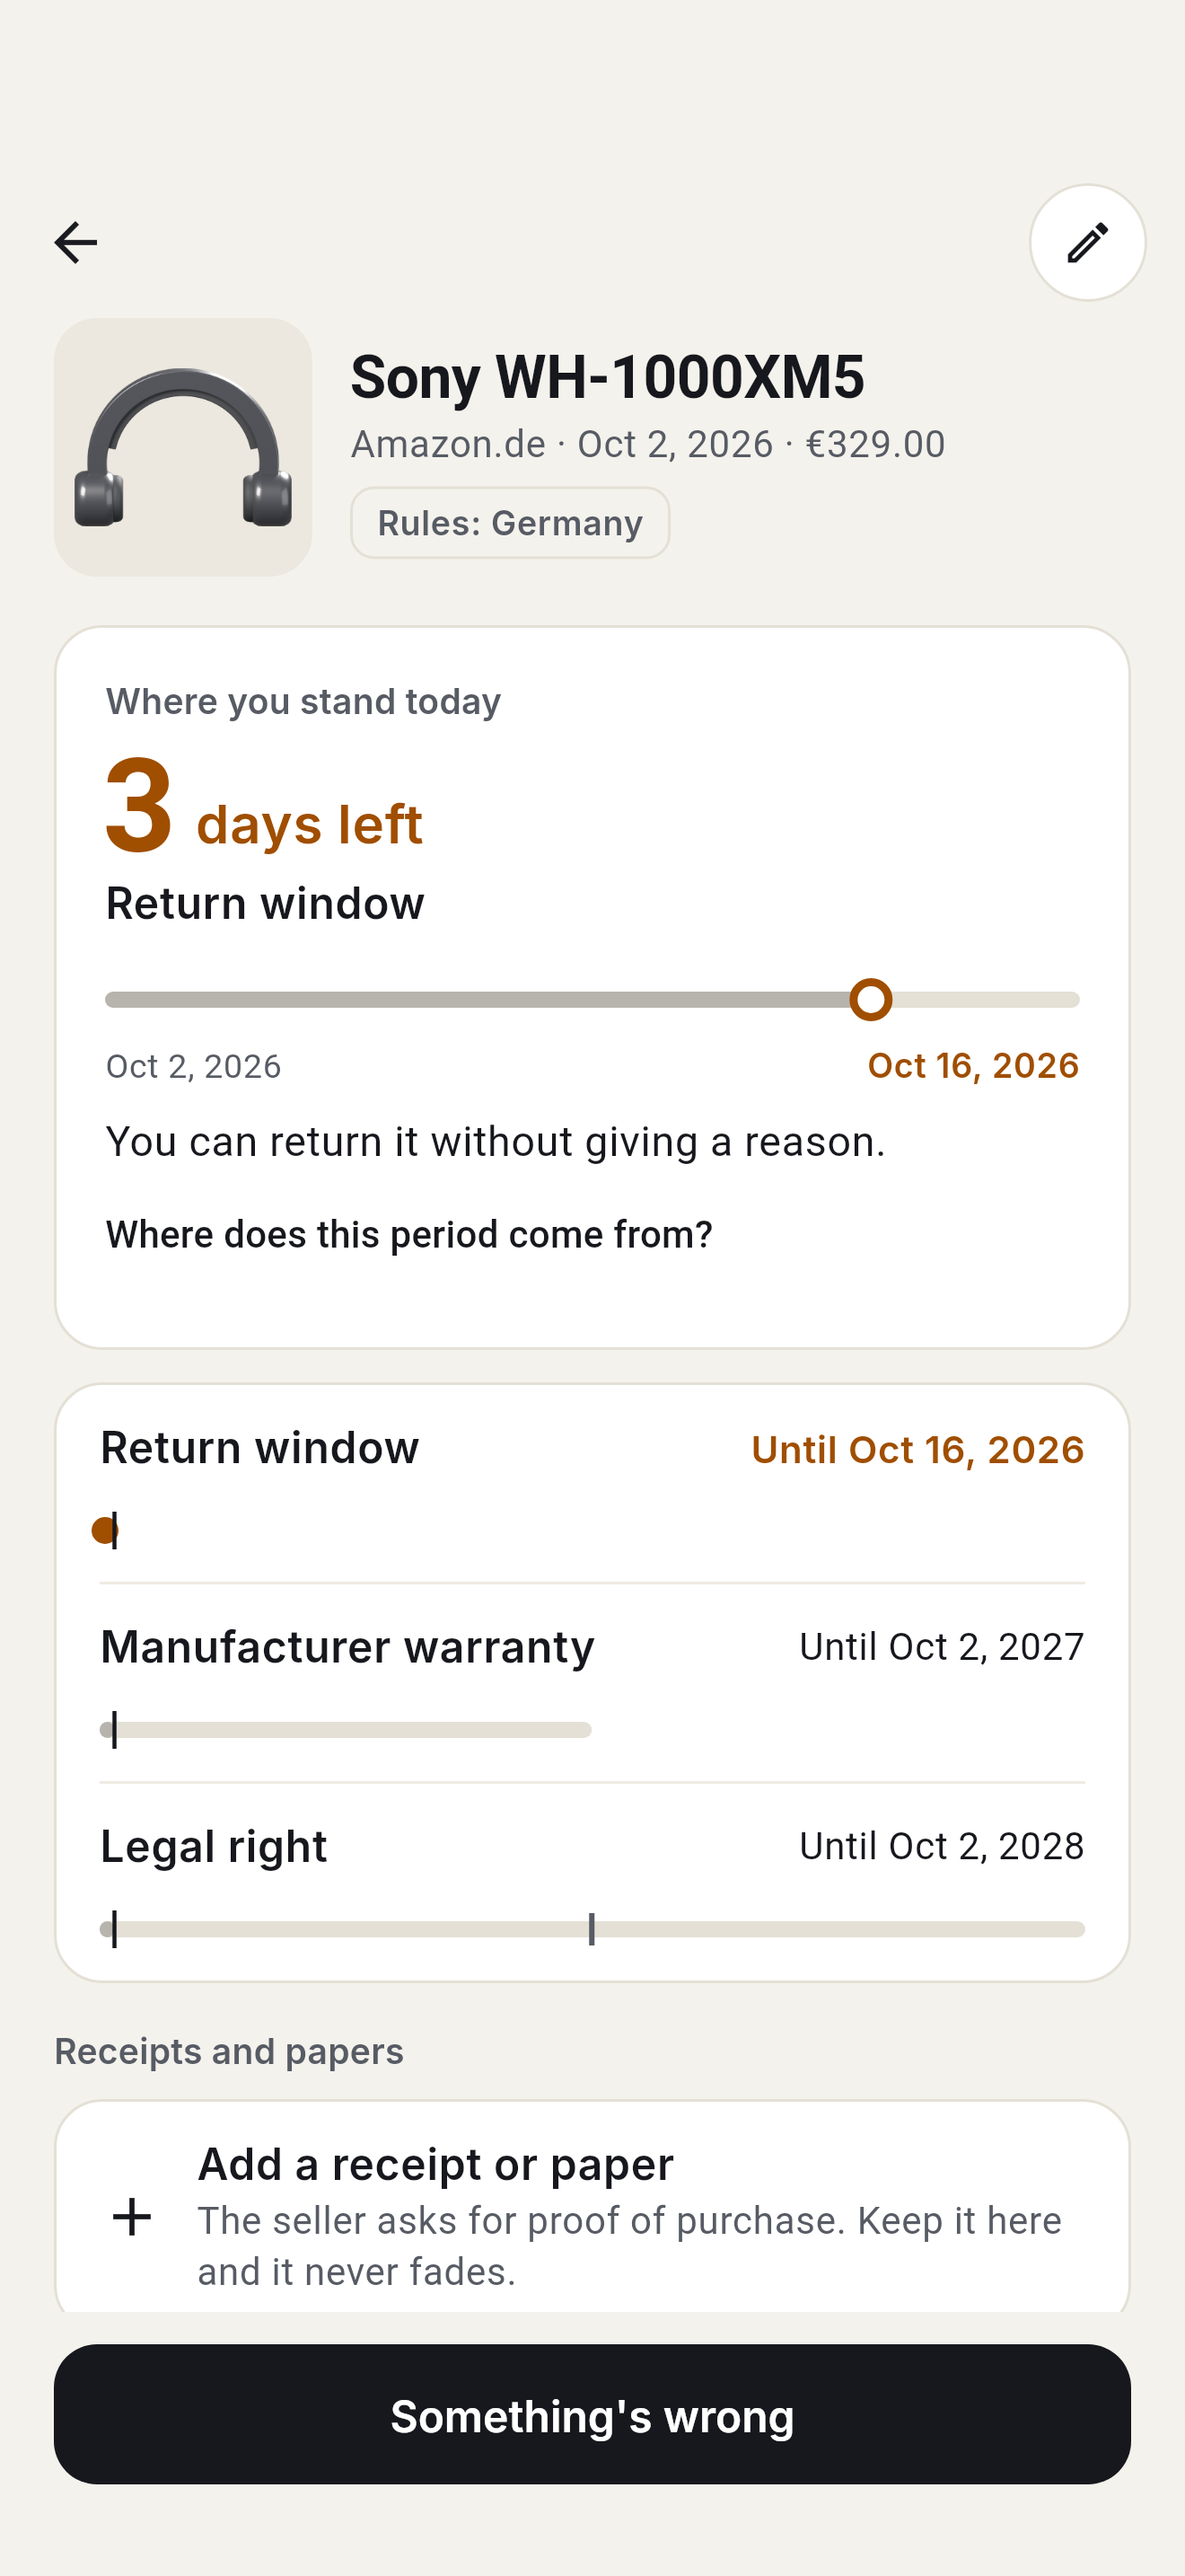
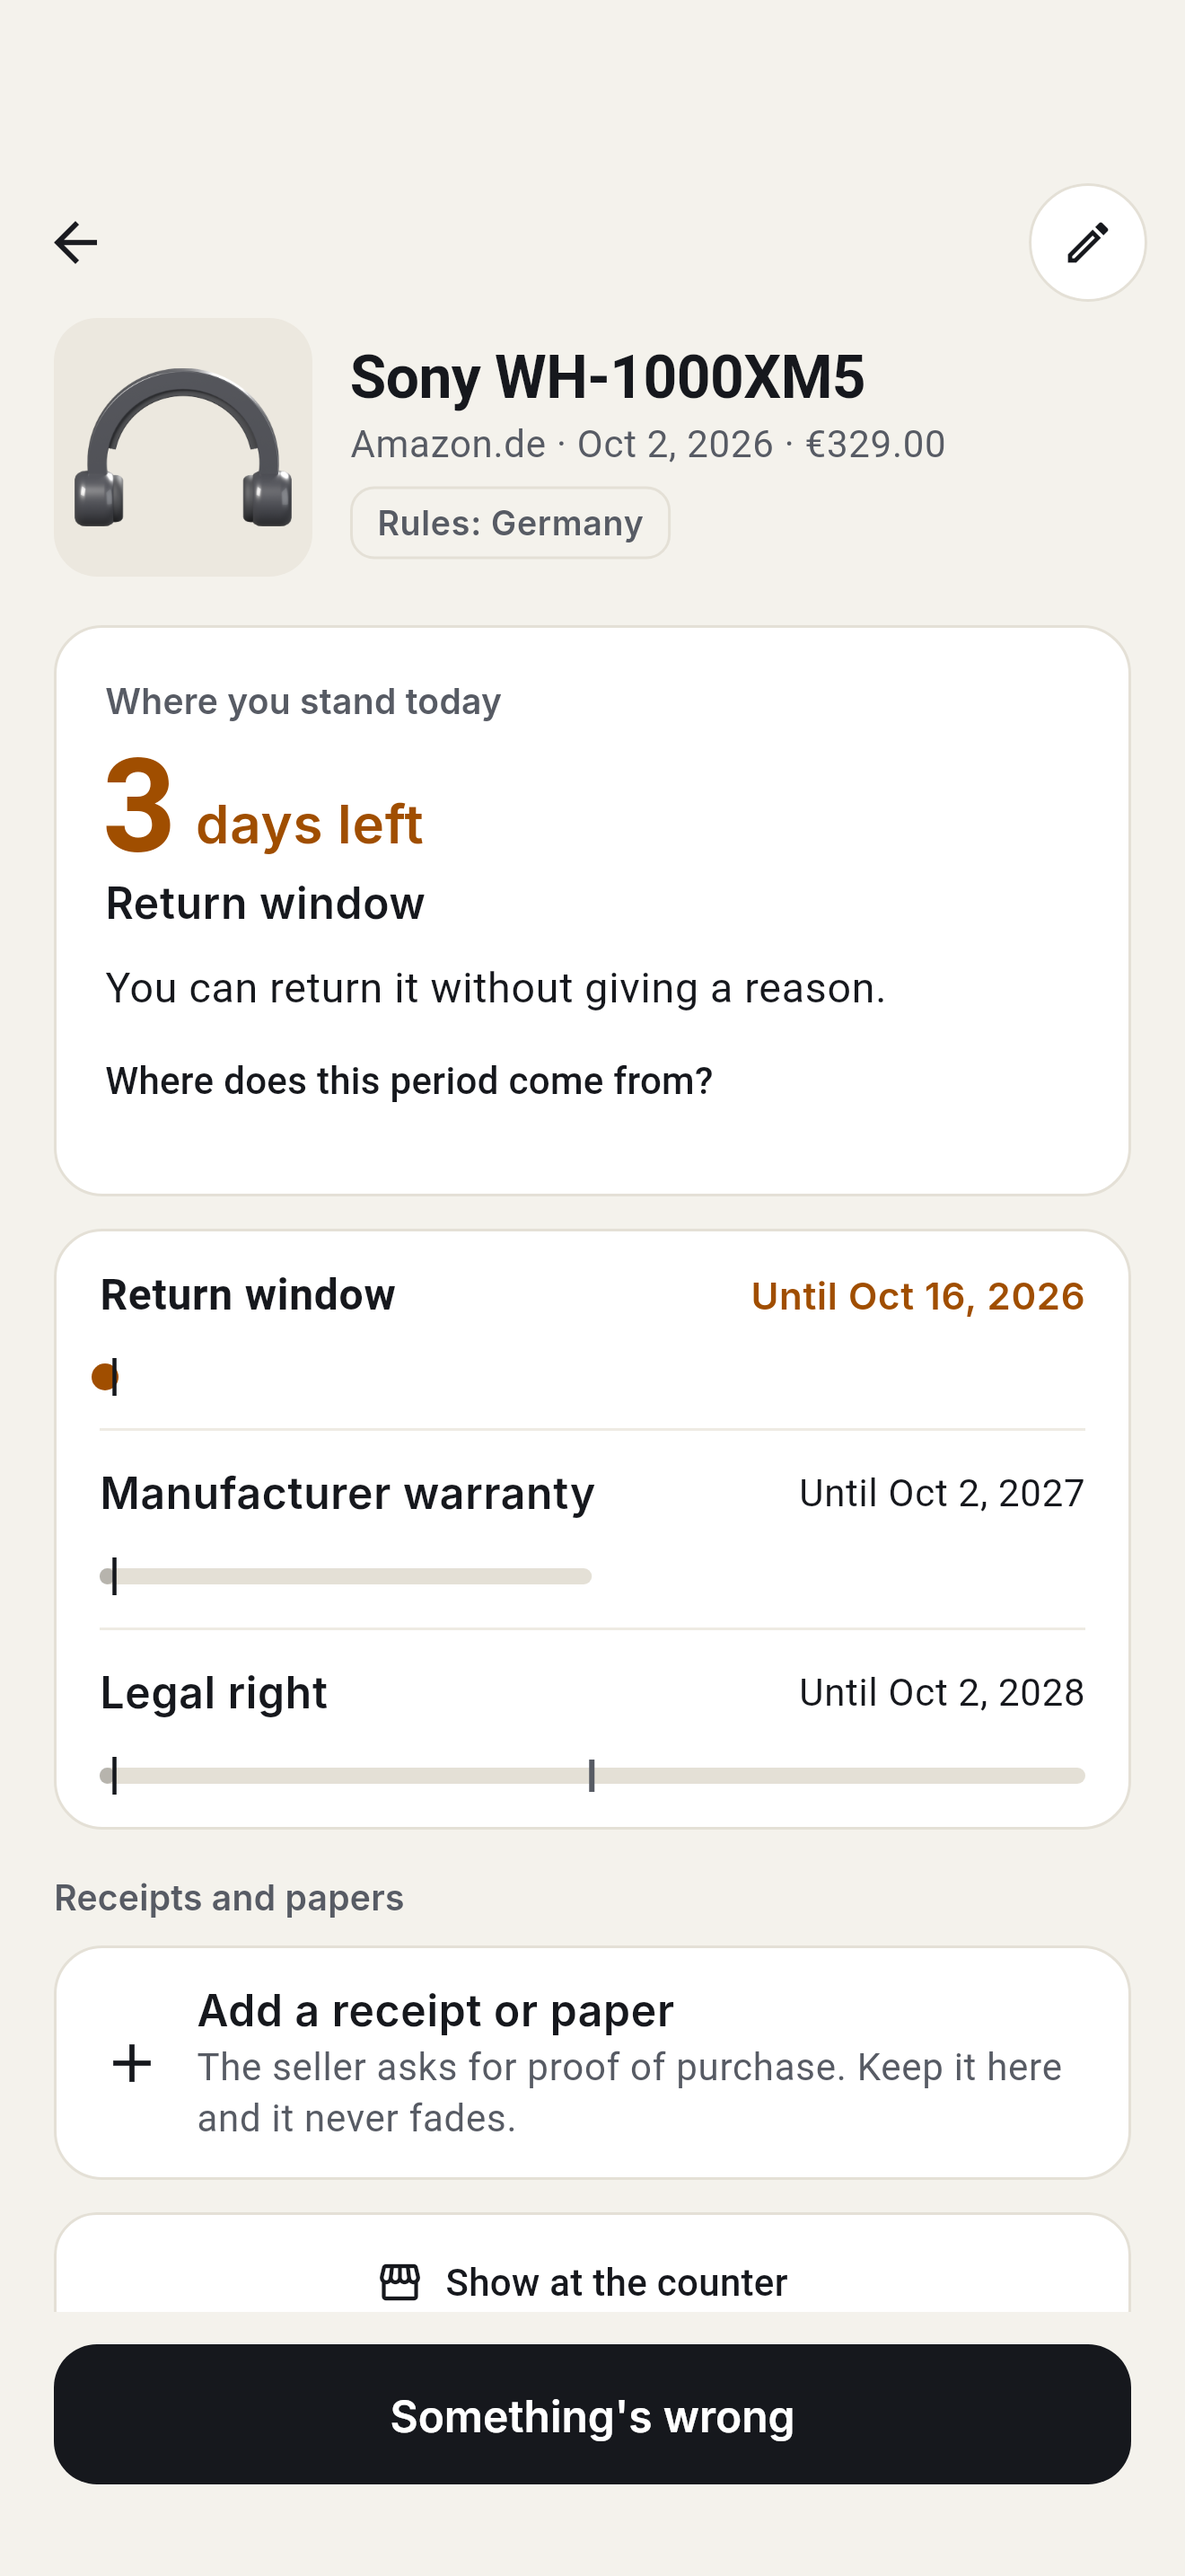
Ürün sayfasında süre bir kez çizilir, büyük yazıda başlık bölünmez (#29)
- Durum kartındaki TimeRule kalktı; aynı koruma korumalar kartında kalın
  satır, bandı ekran okuyucuya geçen yüzdeyi söyler, ispat ayı (önündeyse)
  bandın altında. Fiş ve Kasada göster ilk ekrana çıktı.
- Ana ekran başlığının ölçeği 2× ile sınırlı; 1.6× üstünde düğmeler
  başlığın altındaki satıra iner (3.1×'te "Eşyaları/m" kırılması).
- Mağaza ekranları TR+EN yeniden üretildi (2. ekran yeni ürün sayfası).

Claude-Session: https://claude.ai/code/session_01PF1bpunu6HEbMT9bxfEQUX

diff --git a/lib/features/items/ui/item_detail_screen.dart b/lib/features/items/ui/item_detail_screen.dart
@@ -89,6 +89,7 @@ class ItemDetailScreen extends ConsumerWidget {
                   today: today,
                   axis: TimeBand.axisOf(view.protections),
                   urgent: identical(view.protections[i], view.next),
+                  primary: identical(view.protections[i], view.primary),
                   last: i == view.protections.length - 1,
                 ),
             ]),
@@ -188,11 +189,11 @@ class _AnswerCard extends StatelessWidget {
                 child: Text(unit, style: context.t.bigUnit.copyWith(color: urgent ? context.c.deadline : context.c.text)),
               ),
           ]),
+          // No time rule here (Rafım Ar-Ge 26 Oct 22:20, yasin "yap"): the
+          // same protection is drawn once, in the bands below, where it is
+          // the bold row. Two pictures of one period made the page longer
+          // and pushed the receipt below the first screen.
           Text(kindLabel(l, p!.kind), style: context.t.label),
-          if (p.end != null) ...[
-            const SizedBox(height: VSpace.lg),
-            TimeRule(protection: p, today: today, urgent: urgent),
-          ],
         ],
         const SizedBox(height: VSpace.sm),
         Text(body, style: context.t.body),
@@ -219,12 +220,19 @@ class _ProtectionRow extends StatelessWidget {
     required this.today,
     required this.axis,
     required this.urgent,
+    required this.primary,
     required this.last,
   });
   final Protection p;
   final DateTime today;
   final (DateTime, DateTime)? axis;
   final bool urgent;
+
+  /// The protection the answer card above talks about: its name is bold
+  /// (weight, not colour, so it reads without colour vision) and it keeps
+  /// what that card's rule used to say, the proof month and, for screen
+  /// readers, how much of the period has passed.
+  final bool primary;
   final bool last;
 
   @override
@@ -237,6 +245,12 @@ class _ProtectionRow extends StatelessWidget {
       ProtectionStatus.active =>
         p.end == null ? l.noFixedEnd : l.endsOn(fmtDate(context, p.end!)),
     };
+    final end = p.presumptionEnd;
+    // The month the burden of proof moves, while it is still ahead: after
+    // it the sentence would describe the past.
+    final proofMonth = primary && active && end != null && end.isAfter(today)
+        ? (end.year - p.start.year) * 12 + end.month - p.start.month
+        : null;
     final color = urgent
         ? context.c.deadline
         : (active ? context.c.text : context.c.textSecondary);
@@ -256,7 +270,11 @@ class _ProtectionRow extends StatelessWidget {
             Padding(
               padding: const EdgeInsets.symmetric(vertical: VSpace.md),
               child: Text(kindLabel(l, p.kind),
-                  style: active ? context.t.label : context.t.body.copyWith(color: context.c.textSecondary)),
+                  style: !active
+                      ? context.t.body.copyWith(color: context.c.textSecondary)
+                      : primary
+                          ? context.t.label.copyWith(fontWeight: FontWeight.w700)
+                          : context.t.label),
             ),
             Text(right,
                 style: context.t.small.copyWith(color: color, fontWeight: urgent ? FontWeight.w600 : null)),
@@ -271,12 +289,27 @@ class _ProtectionRow extends StatelessWidget {
         ),
         if (axis case (final from, final to) when p.end != null && p.status != ProtectionStatus.unverified)
           Padding(
+            padding: EdgeInsets.only(bottom: proofMonth == null ? VSpace.md : VSpace.xs),
+            child: Semantics(
+              label: primary ? l.ruleSemantics(_passedPercent(p, today)) : null,
+              child: TimeBand(protection: p, today: today, axisStart: from, axisEnd: to, urgent: urgent),
+            ),
+          ),
+        if (proofMonth != null)
+          Padding(
             padding: const EdgeInsets.only(bottom: VSpace.md),
-            child: TimeBand(protection: p, today: today, axisStart: from, axisEnd: to, urgent: urgent),
+            child: Text(l.ruleProofMonth(proofMonth), style: context.t.small.copyWith(color: context.c.textSecondary)),
           ),
       ]),
     );
   }
+}
+
+int _passedPercent(Protection p, DateTime today) {
+  if (p.status == ProtectionStatus.ended) return 100;
+  final total = p.end!.difference(p.start).inDays;
+  if (total <= 0) return 100;
+  return (today.difference(p.start).inDays / total * 100).clamp(0, 100).round();
 }
 
 class _Chip extends StatelessWidget {

diff --git a/lib/features/items/ui/home_screen.dart b/lib/features/items/ui/home_screen.dart
@@ -62,31 +62,40 @@ class HomeScreen extends ConsumerWidget {
           SliverPadding(
             padding: const EdgeInsets.fromLTRB(VSpace.xl, VSpace.lg, VSpace.xl, 0),
             sliver: SliverToBoxAdapter(
-              child: Row(crossAxisAlignment: CrossAxisAlignment.start, children: [
-                Expanded(
-                  child: Column(crossAxisAlignment: CrossAxisAlignment.start, children: [
-                    Semantics(header: true, child: Text(l.appTitle, style: context.t.display)),
-                    if (active.isNotEmpty)
-                      Text(l.cabinetCount(active.length),
-                          style: context.t.small.copyWith(color: context.c.textSecondary)),
-                  ]),
-                ),
-                if (active.isNotEmpty) ...[
-                  VIconButton(
-                    icon: Icons.search,
-                    label: l.searchTitle,
-                    onPressed: () => Navigator.of(context)
-                        .push(MaterialPageRoute(builder: (_) => const SearchScreen())),
+              child: _Header(
+                title: Column(crossAxisAlignment: CrossAxisAlignment.start, children: [
+                  Semantics(
+                    header: true,
+                    child: MediaQuery.withClampedTextScaling(
+                      // A large title grows to about twice its size, like iOS
+                      // large titles; past that one word ("Eşyalarım") no
+                      // longer fits a phone and broke mid-word at 3.1×.
+                      maxScaleFactor: 2,
+                      child: Text(l.appTitle, style: context.t.display),
+                    ),
                   ),
-                  const SizedBox(width: VSpace.sm),
+                  if (active.isNotEmpty)
+                    Text(l.cabinetCount(active.length),
+                        style: context.t.small.copyWith(color: context.c.textSecondary)),
+                ]),
+                buttons: [
+                  if (active.isNotEmpty) ...[
+                    VIconButton(
+                      icon: Icons.search,
+                      label: l.searchTitle,
+                      onPressed: () => Navigator.of(context)
+                          .push(MaterialPageRoute(builder: (_) => const SearchScreen())),
+                    ),
+                    const SizedBox(width: VSpace.sm),
+                  ],
+                  VIconButton(
+                    icon: Icons.settings_outlined,
+                    label: l.settingsTitle,
+                    onPressed: () => Navigator.of(context)
+                        .push(MaterialPageRoute(builder: (_) => const SettingsScreen())),
+                  ),
                 ],
-                VIconButton(
-                  icon: Icons.settings_outlined,
-                  label: l.settingsTitle,
-                  onPressed: () => Navigator.of(context)
-                      .push(MaterialPageRoute(builder: (_) => const SettingsScreen())),
-                ),
-              ]),
+              ),
             ),
           ),
           if (active.isEmpty && disposed.isEmpty)
@@ -170,6 +179,27 @@ class HomeScreen extends ConsumerWidget {
         ),
       ),
     );
+  }
+}
+
+/// Title beside its buttons; at large text sizes the buttons move to a row
+/// of their own under the title, so the title keeps the whole width instead
+/// of breaking a word to make room for two icons.
+class _Header extends StatelessWidget {
+  const _Header({required this.title, required this.buttons});
+  final Widget title;
+  final List<Widget> buttons;
+
+  @override
+  Widget build(BuildContext context) {
+    if (MediaQuery.textScalerOf(context).scale(1) < 1.6) {
+      return Row(crossAxisAlignment: CrossAxisAlignment.start, children: [Expanded(child: title), ...buttons]);
+    }
+    return Column(crossAxisAlignment: CrossAxisAlignment.stretch, children: [
+      title,
+      const SizedBox(height: VSpace.sm),
+      Row(mainAxisAlignment: MainAxisAlignment.end, children: buttons),
+    ]);
   }
 }
 

diff --git a/test/urun_sayfasi_baslik_test.dart b/test/urun_sayfasi_baslik_test.dart
@@ -1,0 +1,56 @@
+import 'package:flutter/material.dart';
+import 'package:flutter_test/flutter_test.dart';
+import 'package:warranty_vault/core/ui/time_rule.dart';
+import 'package:warranty_vault/features/items/data/vault_store.dart';
+
+import 'home_smoke_test.dart' show app;
+
+void main() {
+  testWidgets('the product page draws each protection once', (t) async {
+    final semantics = t.ensureSemantics();
+    t.view.physicalSize = const Size(1179, 2556);
+    t.view.devicePixelRatio = 3;
+    addTearDown(t.view.reset);
+    await t.pumpWidget(app());
+    await t.pumpAndSettle();
+    await t.tap(find.text('Sony WH-1000XM5').first);
+    await t.pumpAndSettle();
+    // The answer card keeps its number and sentence; the period is drawn
+    // only as the bands, one per protection.
+    expect(find.text('3'), findsOneWidget);
+    expect(find.byType(TimeRule), findsNothing);
+    expect(find.byType(TimeBand), findsNWidgets(3));
+    // The card's protection is the bold row and still says, for screen
+    // readers, how far the period has run.
+    final title = t.widget<Text>(find.text('Return window').last);
+    expect(title.style?.fontWeight, FontWeight.w700);
+    expect(find.bySemanticsLabel(RegExp('of the period has passed')), findsOneWidget);
+    semantics.dispose();
+  });
+
+  for (final scale in [1.0, 2.0, 3.1]) {
+    testWidgets('home title stays one line at ${scale}x text', (t) async {
+      t.view.physicalSize = const Size(1179, 2556);
+      t.view.devicePixelRatio = 3;
+      addTearDown(t.view.reset);
+      for (final store in [null, MemoryVaultStore()]) {
+        await t.pumpWidget(app(textScale: scale, store: store));
+        await t.pumpAndSettle();
+        // The test font is far wider than the real one, so the word's own
+        // line count is checked on the store screenshots; here the two
+        // decisions that keep it whole: the title's scale is capped at 2×,
+        // and from 1.6× the buttons sit on their own row under it.
+        final title = find.text('My things');
+        final scaler = MediaQuery.textScalerOf(t.element(title));
+        expect(scaler.scale(1), scale < 2 ? scale : 2);
+        final settings = t.getTopLeft(find.byTooltip('Settings'));
+        if (scale >= 1.6) {
+          expect(settings.dy, greaterThan(t.getTopLeft(title).dy + t.getSize(title).height - 1));
+        } else {
+          expect(settings.dy, lessThan(t.getTopLeft(title).dy + t.getSize(title).height));
+        }
+        expect(t.takeException(), isNull);
+      }
+    });
+  }
+}
